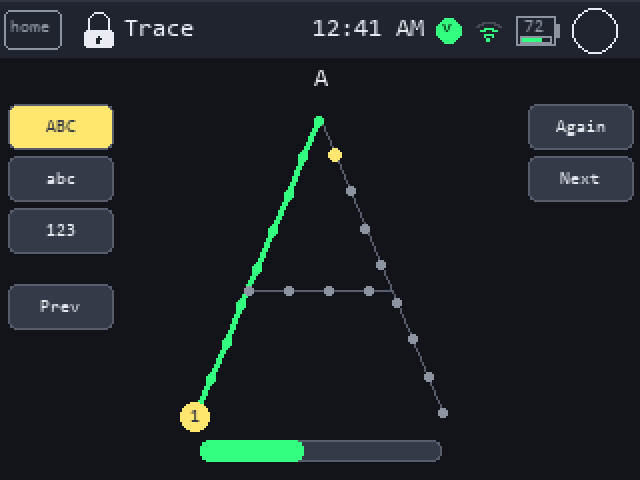
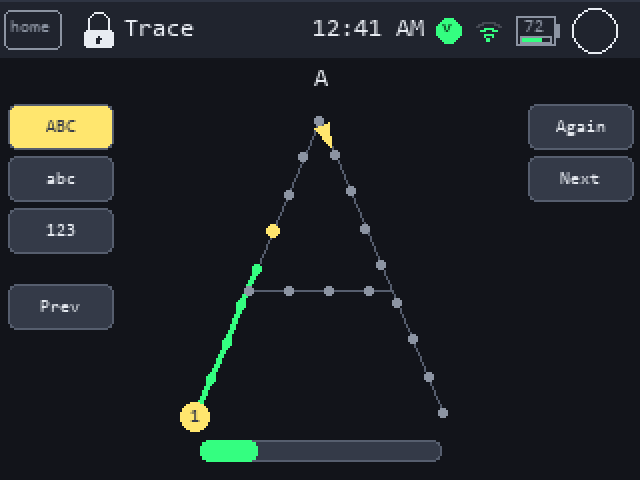
Point the way at every turn, in Trace and Cursive
A small arrow appears just past the next waypoint where the stroke changes
direction, pointing where to go. The dot says where and the arrow says which
way, which are easier to read as two things than as one -- so the arrow sits
past the dot rather than on it. Only ever one at a time, always the next one
ahead of the finger, so it cannot become clutter.

Which waypoints are turns is measured, not authored. A gentle curve bends about
step-over-radius per dot, so at 10px spacing a 50px radius bends 11 degrees and
gets nothing while the tight bottom of a cursive undercurve bends past 45 and
gets an arrow. The first point of every stroke always gets one: there is no
previous direction to have changed from, and "which way do I set off?" is
exactly the question at that moment -- in cursive a letter can begin by going
up, down or sideways.

The separation rule is the part that took measuring. Angle alone fired on three
or four consecutive waypoints wherever the curve was tight, which marks "you
are on a curve" rather than "now turn": cursive 'o' produced seven arrows in
eighteen dots and print 'S' four in twenty-two. Requiring three dots between
turns gives 'o' two, 'S' two, and print 'A' exactly the three that matter --
the start, the apex and the crossbar.

The arrow moving is a change of shape rather than an addition, so it takes a
full repaint; there are a handful of corners per glyph, so that stays rare and
the incremental path keeps the dot-by-dot case.
[…]

Changed region(s): [[0.4062, 0.3438, 0.4688, 0.5625], [0.375, 0.9062, 0.5, 0.9688], [0.4688, 0.25, 0.5312, 0.3438]]

diff --git a/src/games/LetterTracer.cpp b/src/games/LetterTracer.cpp
@@ -65,6 +65,30 @@ constexpr int16_t BAR_Y = 220;
 constexpr int16_t DOT_R = 2;
 constexpr int16_t NEXT_R = 3;
 
+/* HOW SHARP A TURN HAS TO BE TO EARN AN ARROW.
+ *
+ * A waypoint on a gentle curve turns by roughly step/radius radians -- at 10px
+ * spacing, a 50px radius bends 11 degrees per dot and wants no arrow, while
+ * the 15px radius at the bottom of a cursive undercurve bends nearly 40. So
+ * the threshold separates "keep going round" from "now go the other way",
+ * which is exactly the distinction a child needs pointing out.
+ *
+ * Too low and a curve sprouts an arrow every few dots; too high and the sharp
+ * turn inside a cursive 'k' gets nothing. */
+constexpr float CORNER_COS = 0.70f;      // ~46 degrees
+/* And a turn cannot be marked within this many dots of the last one.
+ *
+ * Without it a tight curve fires on three or four consecutive waypoints,
+ * because each of them individually bends past the threshold. Measured on the
+ * real tables: cursive 'o' produced seven arrows in eighteen dots and print
+ * 'S' four in twenty-two, which marks "you are on a curve" rather than "now
+ * turn". With a three-dot gap the same letters get two and two, and print 'A'
+ * gets exactly the three that matter -- the start, the apex, and the
+ * crossbar. */
+constexpr uint8_t CORNER_GAP = 3;
+constexpr int16_t ARROW_LEN = 11;        // tip, measured from the waypoint
+constexpr int16_t ARROW_HALF = 4;        // half the base width
+
 Rect setTabRect(uint8_t i) {
     return Rect{COL_L_X, static_cast<int16_t>(SET_Y + i * SET_STEP), COL_W, BTN_H};
 }
@@ -188,6 +212,7 @@ void LetterTracer::loadGlyph() {
     lastPulseChange_ = millis();
     pulseState_ = false;
     resampleWaypoints();
+    arrowAt_ = nextCorner();
     markFullDirty();
 }
 
@@ -268,6 +293,80 @@ void LetterTracer::resampleWaypoints() {
         strokeLen_[s] = static_cast<uint8_t>(totalPts - strokeStart_[s]);
     }
     strokeCount_ = g.strokeCount > MAX_STROKES ? MAX_STROKES : g.strokeCount;
+    findCorners();
+}
+
+/* Which waypoints are turns.
+ *
+ * The first point of every stroke counts, always: at the start there is no
+ * previous direction to have changed from, and "which way do I set off?" is
+ * the question a child actually has at that moment -- especially in cursive,
+ * where a letter can begin by going up, down or sideways.
+ *
+ * After that it is the angle between arriving and leaving. The last point of a
+ * stroke is never a corner: there is nowhere further to go. */
+void LetterTracer::findCorners() {
+    for (bool& c : corner_) c = false;
+
+    for (uint8_t s = 0; s < strokeCount_; ++s) {
+        const uint8_t start = strokeStart_[s];
+        const uint8_t len = strokeLen_[s];
+        if (len == 0) continue;
+        corner_[start] = true;
+        uint8_t lastMarked = 0;
+
+        for (uint8_t i = 1; i + 1 < len && start + i + 1 < MAX_POINTS; ++i) {
+            if (i - lastMarked < CORNER_GAP) continue;
+            const uint8_t p = static_cast<uint8_t>(start + i);
+            const float ax = static_cast<float>(pts_[p].x - pts_[p - 1].x);
+            const float ay = static_cast<float>(pts_[p].y - pts_[p - 1].y);
+            const float bx = static_cast<float>(pts_[p + 1].x - pts_[p].x);
+            const float by = static_cast<float>(pts_[p + 1].y - pts_[p].y);
+            const float la = sqrtf(ax * ax + ay * ay);
+            const float lb = sqrtf(bx * bx + by * by);
+            if (la < 0.5f || lb < 0.5f) continue;
+            /* cos of the turn: 1 is straight on, 0 is a right angle. */
+            if ((ax * bx + ay * by) / (la * lb) < CORNER_COS) {
+                corner_[p] = true;
+                lastMarked = i;
+            }
+        }
+    }
+}
+
+uint8_t LetterTracer::nextCorner() const {
+    if (activeStroke_ >= strokeCount_) return NO_CORNER;
+    const uint8_t start = strokeStart_[activeStroke_];
+    const uint8_t len = strokeLen_[activeStroke_];
+    for (uint8_t i = nextPoint_; i + 1 < len && start + i < MAX_POINTS; ++i) {
+        if (corner_[start + i]) return static_cast<uint8_t>(start + i);
+    }
+    return NO_CORNER;
+}
+
+/* A small arrow just past the waypoint, pointing where the stroke goes next.
+ *
+ * Past it rather than on it, so it does not bury the dot the finger is aiming
+ * for -- the dot says WHERE and the arrow says WHICH WAY, and they are easier
+ * to read as two things than as one. */
+void LetterTracer::drawArrow(Ui::Renderer& tft, uint8_t index) {
+    if (index == NO_CORNER || index + 1 >= MAX_POINTS) return;
+    const float dx = static_cast<float>(pts_[index + 1].x - pts_[index].x);
+    const float dy = static_cast<float>(pts_[index + 1].y - pts_[index].y);
+    const float len = sqrtf(dx * dx + dy * dy);
+    if (len < 0.5f) return;
+    const float ux = dx / len;
+    const float uy = dy / len;
+
+    const float bx = static_cast<float>(pts_[index].x) + ux * NEXT_R;
+    const float by = static_cast<float>(pts_[index].y) + uy * NEXT_R;
+    const int16_t tipX = static_cast<int16_t>(bx + ux * ARROW_LEN);
+    const int16_t tipY = static_cast<int16_t>(by + uy * ARROW_LEN);
+    const int16_t leftX = static_cast<int16_t>(bx - uy * ARROW_HALF);
+    const int16_t leftY = static_cast<int16_t>(by + ux * ARROW_HALF);
+    const int16_t rightX = static_cast<int16_t>(bx + uy * ARROW_HALF);
+    const int16_t rightY = static_cast<int16_t>(by - ux * ARROW_HALF);
+    tft.fillTriangle(tipX, tipY, leftX, leftY, rightX, rightY, Ui::warning());
 }
 
 int16_t LetterTracer::scaleX(int16_t nx) const {
@@ -335,6 +434,14 @@ void LetterTracer::update(AppContext& host, const TouchPoint& touch) {
             if (d2 < (int32_t)HIT_RADIUS * HIT_RADIUS) {
                 ++nextPoint_;
                 markDirty();
+                /* The arrow moving is a change of shape, not an addition, so
+                 * it earns a full repaint -- the old one has to go. Corners
+                 * are a handful per glyph, so this is rare. */
+                const uint8_t corner = nextCorner();
+                if (corner != arrowAt_) {
+                    arrowAt_ = corner;
+                    markFullDirty();
+                }
 
                 if (nextPoint_ >= strokeLen_[activeStroke_]) {
                     host.beepOk();
@@ -542,6 +649,7 @@ void LetterTracer::render(AppContext& host, const char* title, bool fullRender) 
         tft.fillRect(DRAW_X, DRAW_Y, DRAW_W, DRAW_H, Ui::bg());
         drawGhost(tft);
         drawAllDots(tft);
+        drawArrow(tft, arrowAt_);
         drawProgress(tft);
         if (complete_) drawCompleteStatus(tft);
         paintedStroke_ = activeStroke_;

diff --git a/tools/gen_screens.py b/tools/gen_screens.py
@@ -532,6 +532,9 @@ def cursive():
             d.ellipse([x - 3, y - 3, x + 3, y + 3], fill=WARN)
         else:
             d.ellipse([x - 2, y - 2, x + 2, y + 2], fill=MUTED)
+    ahead = [c for c in _corners(way) if c >= inked]
+    if ahead:
+        _arrow(d, way, ahead[0])
     hx, hy = way[0]
     d.ellipse([hx - 7, hy - 7, hx + 7, hy + 7], fill=WARN)
     d.text((hx - 3, hy - 4), "1", font=F1, fill=PANEL)
@@ -697,6 +700,43 @@ def _resample(pts, step):
     return out
 
 
+def _corners(way, cos_t=0.70, gap=3):
+    """Which waypoints LetterTracer would mark as turns. Same rule, restated."""
+    import math as _m
+    out, last = [], 0
+    for i in range(len(way)):
+        hit = (i == 0)
+        if 0 < i < len(way) - 1:
+            if i - last < gap:
+                continue
+            ax, ay = way[i][0] - way[i - 1][0], way[i][1] - way[i - 1][1]
+            bx, by = way[i + 1][0] - way[i][0], way[i + 1][1] - way[i][1]
+            la, lb = _m.hypot(ax, ay), _m.hypot(bx, by)
+            hit = la >= 0.5 and lb >= 0.5 and (ax * bx + ay * by) / (la * lb) < cos_t
+        if hit:
+            out.append(i)
+            last = i
+    return out
+
+
+def _arrow(d, way, index):
+    """The direction arrow, just past a turn, pointing where the stroke goes."""
+    import math as _m
+    if index + 1 >= len(way):
+        return
+    ax, ay = way[index]
+    bx, by = way[index + 1]
+    dx, dy = bx - ax, by - ay
+    n = _m.hypot(dx, dy)
+    if n < 0.5:
+        return
+    ux, uy = dx / n, dy / n
+    bx0, by0 = ax + ux * 3, ay + uy * 3
+    d.polygon([(bx0 + ux * 11, by0 + uy * 11),
+               (bx0 - uy * 4, by0 + ux * 4),
+               (bx0 + uy * 4, by0 - ux * 4)], fill=WARN)
+
+
 def _tracer_canvas(d, paths, spacing, fraction, badge="1"):
     """The ghost, the traced part, the pulsing next dot and the rest."""
     for pts in paths:
@@ -712,6 +752,10 @@ def _tracer_canvas(d, paths, spacing, fraction, badge="1"):
             d.ellipse([x - 3, y - 3, x + 3, y + 3], fill=WARN)
         else:
             d.ellipse([x - 2, y - 2, x + 2, y + 2], fill=MUTED)
+    # The arrow at the next turn at or after the finger -- one at a time.
+    ahead = [c for c in _corners(way) if c >= inked]
+    if ahead:
+        _arrow(d, way, ahead[0])
     hx, hy = way[0]
     d.ellipse([hx - 7, hy - 7, hx + 7, hy + 7], fill=WARN)
     d.text((hx - 3, hy - 4), badge, font=F1, fill=PANEL)
@@ -729,7 +773,8 @@ def _tracer_canvas(d, paths, spacing, fraction, badge="1"):
 def trace():
     im, d = blank(); topbar(d, "Trace")
     _tracer_chrome(d, "A", ["ABC", "abc", "123"], 0)
-    _tracer_canvas(d, _glyph_strokes("TraceGlyphData.cpp", "A"), 20, 0.55)
+    # Traced short of the apex on purpose, so the turn arrow is in shot.
+    _tracer_canvas(d, _glyph_strokes("TraceGlyphData.cpp", "A"), 20, 0.30)
     return im
 
 

diff --git a/src/games/LetterTracer.h b/src/games/LetterTracer.h
@@ -130,6 +130,14 @@ private:
     void drawCaption(Ui::Renderer& tft);
     /** The finished shape, faintly, as the thing to aim at. */
     void drawGhost(Ui::Renderer& tft);
+    /* Work out which waypoints are turns rather than continuations. Called
+     * once per glyph, from resampleWaypoints(). */
+    void findCorners();
+    /* The next waypoint at or after the finger that is a turn, or NO_CORNER.
+     * One arrow at a time, always the one that matters next. */
+    uint8_t nextCorner() const;
+    /** A small arrow at `index`, pointing the way the stroke goes next. */
+    void drawArrow(Ui::Renderer& tft, uint8_t index);
     void drawTracedSegment(Ui::Renderer& tft, uint8_t from, uint8_t to);
     void drawAllDots(Ui::Renderer& tft);
     void drawProgress(Ui::Renderer& tft);
@@ -157,7 +165,13 @@ private:
     uint8_t setCount_ = 0;
     uint8_t setIndex_ = 0;
 
+    static constexpr uint8_t NO_CORNER = 0xFF;
+
     Pt pts_[MAX_POINTS] = {};
+    /* Which waypoints are turns. A byte each rather than a bitfield: 128
+     * bytes of static RAM against the arithmetic and the off-by-one risk of
+     * packing it, on a device with 250KB spare. */
+    bool corner_[MAX_POINTS] = {};
     uint8_t strokeStart_[MAX_STROKES] = {};
     uint8_t strokeLen_[MAX_STROKES] = {};
     uint8_t strokeCount_ = 0;
@@ -174,6 +188,10 @@ private:
     bool dirty_ = true;
     bool fullDirty_ = true;
     bool justCompleted_ = false;
+    /* Where the arrow currently is. When it moves the picture changes shape,
+     * so that earns a full repaint -- see render(). Corners are a handful per
+     * glyph, so this is a handful of full repaints per letter. */
+    uint8_t arrowAt_ = NO_CORNER;
     /* What the panel already shows, so a partial frame can draw only what has
      * appeared since. See the note above render() in the .cpp. */
     uint8_t paintedStroke_ = 0;

diff --git a/README.md b/README.md
@@ -8,7 +8,7 @@
 [![Platform](https://img.shields.io/badge/platform-ESP32--32E-e25822)](#build-and-flash)
 [![Framework](https://img.shields.io/badge/framework-Arduino%20%7C%20PlatformIO-orange)](https://platformio.org/)
 [![C++17](https://img.shields.io/badge/C%2B%2B-17-00599c)](platformio.ini)
-[![Flash](https://img.shields.io/badge/flash-77.5%25%20of%203%20MB-yellow)](#build-and-flash)
+[![Flash](https://img.shields.io/badge/flash-77.6%25%20of%203%20MB-yellow)](#build-and-flash)
 [![No telemetry](https://img.shields.io/badge/telemetry-none-brightgreen)](#privacy)
 [![License: GPL v3](https://img.shields.io/badge/license-GPLv3-blue)](LICENSE)
 
@@ -30,8 +30,8 @@ no data collection.** Two radios exist and both are narrow by design:
 | | |
 |---|---|
 | Games | 35 |
-| Flash | 2,439,241 / 3,145,728 bytes (**77.5%**) |
-| RAM | 76,252 / 327,680 bytes (**23.3%**) |
+| Flash | 2,440,121 / 3,145,728 bytes (**77.6%**) |
+| RAM | 76,508 / 327,680 bytes (**23.3%**) |
 | Artwork | 195 country flags, 50 state flags, 50 state outlines — 763 KB (34% of the image) |
 
 Contribution workflow lives in [CONTRIBUTING.md](CONTRIBUTING.md), alongside
@@ -294,7 +294,7 @@ needs without touching anyone else's. Only the admin can change it.
 | **Piano** | One octave, C to C, with the note name on every key; tap or hold a key and it sounds for as long as you hold it | The first thing here with no right answer — a child can make something rather than be tested on it, and the note names are on the keys so the naming comes for free | 3+ |
 | **Chess** | The full rules for two players — on one device, or on two in the same room over Bluetooth. Tap a piece and every square it may legally move to is ringed, including castling and en passant. Check and checkmate are called out, and so are the draws, each with its reason: stalemate, too few pieces to mate with, and fifty moves without a capture. Captured pieces are shown for both sides, the game is remembered if you put the device down, and either player can end one nobody can finish | Learning chess by seeing what is legal rather than being told when you are wrong — and the one game here two people play against each other | 6+ |
 | **Sea Battle** | Battleships on an 8x8 sea, for two players — passing one console, or against another in the room over Bluetooth. Your fleet is shuffled for you; hunt theirs a square at a time, watching your own sea take damage beside the board | Deduction with a memory: every miss narrows the search, and a child works out that hits come in lines long before anyone explains it | 6+ |
-| **Cursive** | Joined-up handwriting, traced with a finger: capitals, lowercase, and thirty-nine easy words covering every letter. A word is one unbroken stroke, not a letter at a time, with the stroke order a hand actually uses. The score counts how much has been practised and never stops going up | Cursive is a different skill from printing, not a decoration on it — the joins are the skill, and there is nothing here to win or lose, only practice | 5+ |
+| **Cursive** | Joined-up handwriting, traced with a finger: capitals, lowercase, and thirty-nine easy words covering every letter. A word is one unbroken stroke, not a letter at a time, with the stroke order a hand actually uses, and an arrow appears at each point where the direction changes. The score counts how much has been practised and never stops going up | Cursive is a different skill from printing, not a decoration on it — the joins are the skill, and there is nothing here to win or lose, only practice | 5+ |
 
 Flags, Elements and the three US States games all use **spaced repetition**; Flags also
 uses **adaptive difficulty** — see below.

diff --git a/CHANGELOG.md b/CHANGELOG.md
@@ -24,6 +24,25 @@ not where the ink meets — an `a` is written from the top right of its oval, so
 its first dot is nowhere near its left edge. The shapes were always joined; only
 the stroke list was not.
 
+**Trace and Cursive show a direction arrow at every turn.** A small arrow
+appears just past the next point where the stroke changes direction, pointing
+where to go — the dot says *where* and the arrow says *which way*. Only one is
+shown at a time, always the next one, so it never becomes clutter.
+
+Which points count as turns is measured rather than authored: the angle between
+arriving at a waypoint and leaving it. A gentle curve bends about
+step-over-radius per dot, so at 10px spacing a 50px radius bends 11° and gets
+nothing, while the tight bottom of a cursive undercurve bends past 45° and gets
+an arrow. The first point of every stroke always gets one, because "which way
+do I set off?" is the question at that moment — in cursive a letter can begin
+by going up, down or sideways.
+
+A turn also cannot be marked within three dots of the last one. Without that a
+tight curve fired on three or four consecutive waypoints and marked "you are on
+a curve" rather than "now turn": cursive `o` produced seven arrows in eighteen
+dots. With the gap, `o` gets two and printed `A` gets exactly the three that
+matter — the start, the apex and the crossbar.
+
 **Every glyph was being drawn 22% too short, and that was the real cause of
 the flatness.** The tracer scaled x by canvas-width/200 and y by
 canvas-height/200 — two different numbers. At the old 164x160 canvas they were

diff --git a/src/games/CLAUDE.md b/src/games/CLAUDE.md
@@ -130,6 +130,17 @@ and a name. Add a third tracing game the same way; do not copy the engine.
 - **A `Set` may open at a random entry** (`randomStart`). Right for words and
   wrong for an alphabet: ABC is the order a child is learning, while always
   being handed the same word first makes fifty words feel like one.
+- **A glyph table declares the box it was authored in.** `configure()` takes
+  `coordW`/`coordH` and the tracer scales BOTH axes by one number, letterboxing
+  the remainder. Two scales is how every glyph came to be drawn 22% short:
+  x by canvas-width/200 and y by canvas-height/200 are only equal when the
+  canvas is square. If you author a new table, give it the canvas's shape when
+  width matters (words) and a square when it does not (single letters).
+- **Direction arrows come from the geometry, not from the data.** A waypoint is
+  a turn when the angle between arriving and leaving exceeds `CORNER_COS`, and
+  no turn is marked within `CORNER_GAP` dots of the last -- without that gap a
+  tight curve marks every dot. The arrow moving is a change of shape, so it
+  takes a full repaint; corners are a handful per glyph, so that is rare.
 - **Cursive's letterforms are generated** by `tools/gen_cursive_glyphs.py` from
   a GPLv3 dotted teaching font. Both `CursiveGlyphData.h` and `.cpp` are
   generated, including the counts, which are `constexpr` because the game's

diff --git a/CLAUDE.md b/CLAUDE.md
@@ -408,9 +408,9 @@ The same reasoning applies to any lock PlatformIO itself leaves in `~/.platformi
 
 ### Shared budgets
 
-Flash is global and nearly the binding constraint (2,439,241 / 3,145,728 bytes,
-**77.5%**; NimBLE plus the BT controller account for ~192 KB of that). RAM sits
-at 76,252 / 327,680 (23.3%) -- higher than it was, deliberately: RowList traded
+Flash is global and nearly the binding constraint (2,440,121 / 3,145,728 bytes,
+**77.6%**; NimBLE plus the BT controller account for ~192 KB of that). RAM sits
+at 76,508 / 327,680 (23.3%) -- higher than it was, deliberately: RowList traded
 864 bytes of static RAM for zero heap traffic and storage diagnostics keep their
 profile-move buffers static. On this device that is a good
 trade every time. Two agents can each add artwork that fits locally and together overflow it. Read the size line from `pio run` and report it when you add data tables or images.
